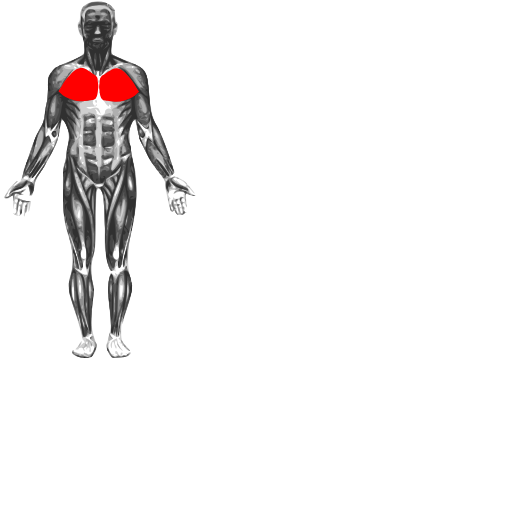
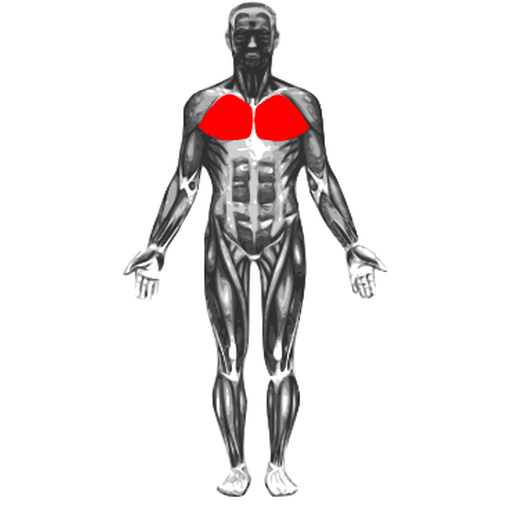
fix(backend): separate muscle group diagrams from exercise illustrations and center 512x512 muscle SVGs/PNGs

Changed region(s): [[0.0, 0.0, 0.75, 0.9688]]

diff --git a/backend/src/main/java/com/homefit/server/service/DataSeeder.java b/backend/src/main/java/com/homefit/server/service/DataSeeder.java
@@ -73,8 +73,8 @@ public class DataSeeder implements ApplicationRunner {
         List<Exercise> allExercises = exerciseRepository.findAll();
         int exUpdated = 0;
         for (Exercise e : allExercises) {
-            String newUrl = getRealFitnessMediaUrlForExercise(e.getName(), e.getCategoryId());
-            if (e.getMediaUrl() == null || !e.getMediaUrl().equals(newUrl)) {
+            if (e.getMediaUrl() == null || e.getMediaUrl().isBlank() || e.getMediaUrl().contains("/images/muscles/")) {
+                String newUrl = getRealFitnessMediaUrlForExercise(e.getName(), e.getCategoryId());
                 e.setMediaUrl(newUrl);
                 e.setMediaType(com.homefit.server.domain.MediaType.GIF);
                 exerciseRepository.save(e);
@@ -93,43 +93,42 @@ public class DataSeeder implements ApplicationRunner {
             }
         }
 
-        log.info("Ép ghi đè toàn bộ bộ ảnh 3D giải phẫu thể hình nền trắng thành công: {} Bài tập, {} Buổi tập", exUpdated, woUpdated);
+        log.info("Cập nhật bộ ảnh minh họa động tác bài tập và ảnh bìa nhóm cơ thành công: {} Bài tập, {} Buổi tập", exUpdated, woUpdated);
     }
 
     private String getRealFitnessMediaUrlForExercise(String name, Long categoryId) {
-        String base = "https://ironfitness-et3g.onrender.com/images/muscles/";
         String n = name != null ? name.toLowerCase() : "";
-        if (n.contains("plank") || n.contains("gập bụng") || n.contains("crunch") || n.contains("sit-up") || n.contains("mountain climber") || n.contains("leg raise")) {
-            return base + "abs.png";
+        if (n.contains("plank") || n.contains("gập bụng") || n.contains("crunch") || n.contains("sit-up") || n.contains("leg raise") || n.contains("dead bug") || n.contains("hollow") || n.contains("heel tap")) {
+            return "https://images.unsplash.com/photo-1571019614242-c5c5dee9f50b?w=600";
         }
         if (n.contains("hít đất") || n.contains("push-up") || n.contains("pushup") || n.contains("chống đẩy") || n.contains("ngực")) {
-            return base + "chest.png";
+            return "https://images.unsplash.com/photo-1598971639058-fab3c3109a00?w=600";
         }
-        if (n.contains("tay") || n.contains("dip") || n.contains("curl") || n.contains("tricep") || n.contains("bicep")) {
-            return base + "arms.png";
+        if (n.contains("tay") || n.contains("dip") || n.contains("curl") || n.contains("tricep") || n.contains("bicep") || n.contains("pike")) {
+            return "https://images.unsplash.com/photo-1581009146145-b5ef050c2e1e?w=600";
         }
-        if (n.contains("squat") || n.contains("lunge") || n.contains("chân") || n.contains("mông") || n.contains("calf")) {
-            return base + "legs.png";
+        if (n.contains("squat") || n.contains("lunge") || n.contains("chân") || n.contains("mông") || n.contains("calf") || n.contains("bridge") || n.contains("donkey") || n.contains("step-up") || n.contains("wall sit")) {
+            return "https://images.unsplash.com/photo-1574680096145-d05b474e2155?w=600";
         }
-        if (n.contains("lưng") || n.contains("superman") || n.contains("bird dog") || n.contains("row") || n.contains("cat-cow")) {
-            return base + "back.png";
+        if (n.contains("lưng") || n.contains("superman") || n.contains("bird dog") || n.contains("row") || n.contains("cat-cow") || n.contains("snow angel")) {
+            return "https://images.unsplash.com/photo-1605296867304-46d5465a13f1?w=600";
         }
-        if (n.contains("stretch") || n.contains("giãn") || n.contains("kéo")) {
-            return base + "back.png";
+        if (n.contains("stretch") || n.contains("giãn") || n.contains("kéo") || n.contains("pose") || n.contains("opener")) {
+            return "https://images.unsplash.com/photo-1544367567-0f2fcb009e0b?w=600";
         }
-        if (n.contains("jack") || n.contains("jumping") || n.contains("burpee") || n.contains("tabata") || n.contains("hiit")) {
-            return base + "fullbody.png";
+        if (n.contains("jack") || n.contains("jumping") || n.contains("burpee") || n.contains("tabata") || n.contains("hiit") || n.contains("mountain climber") || n.contains("leo núi") || n.contains("nhảy") || n.contains("đấm bốc") || n.contains("chạy")) {
+            return "https://images.unsplash.com/photo-1552674605-db6ffd4facb5?w=600";
         }
 
         if (categoryId != null) {
-            if (categoryId == 1L) return base + "abs.png";
-            if (categoryId == 2L) return base + "chest.png";
-            if (categoryId == 3L) return base + "legs.png";
-            if (categoryId == 4L) return base + "fullbody.png";
-            if (categoryId == 5L) return base + "arms.png";
-            if (categoryId == 6L) return base + "back.png";
+            if (categoryId == 1L) return "https://images.unsplash.com/photo-1571019614242-c5c5dee9f50b?w=600";
+            if (categoryId == 2L) return "https://images.unsplash.com/photo-1598971639058-fab3c3109a00?w=600";
+            if (categoryId == 3L) return "https://images.unsplash.com/photo-1574680096145-d05b474e2155?w=600";
+            if (categoryId == 4L) return "https://images.unsplash.com/photo-1552674605-db6ffd4facb5?w=600";
+            if (categoryId == 5L) return "https://images.unsplash.com/photo-1581009146145-b5ef050c2e1e?w=600";
+            if (categoryId == 6L) return "https://images.unsplash.com/photo-1605296867304-46d5465a13f1?w=600";
         }
-        return base + "abs.png";
+        return "https://images.unsplash.com/photo-1571019614242-c5c5dee9f50b?w=600";
     }
 
     private String getRealFitnessCoverUrlForWorkout(String type, String goal, String primaryMuscle) {
@@ -165,6 +164,7 @@ public class DataSeeder implements ApplicationRunner {
     }
 
     private Map<String, Category> seedCategories() {
+        String base = "https://ironfitness-et3g.onrender.com/images/muscles/";
         Map<String, String[]> defs = Map.of(
                 "abs", new String[]{"Cơ Bụng", "1"},
                 "chest", new String[]{"Cơ Ngực", "2"},
@@ -185,6 +185,7 @@ public class DataSeeder implements ApplicationRunner {
                 return categoryRepository.save(cat);
             });
             c.setActive(true);
+            c.setIconUrl(base + slug + ".png");
             categoryRepository.save(c);
             result.put(slug, c);
         });
